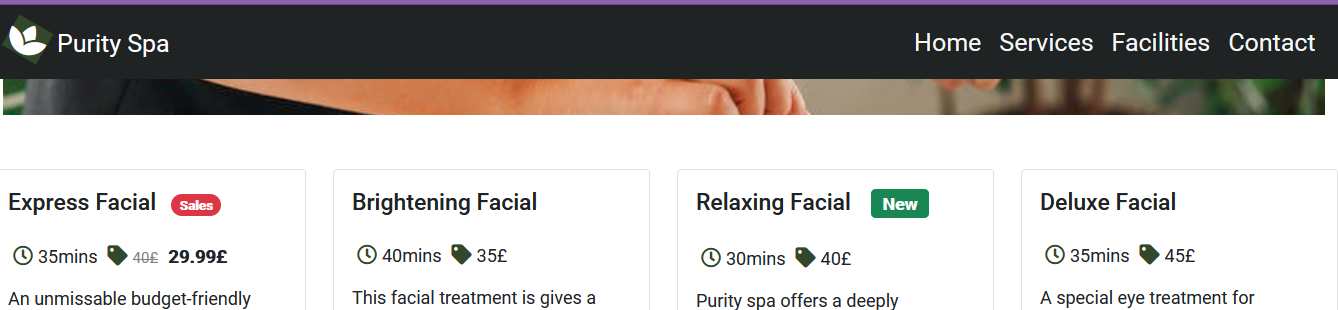
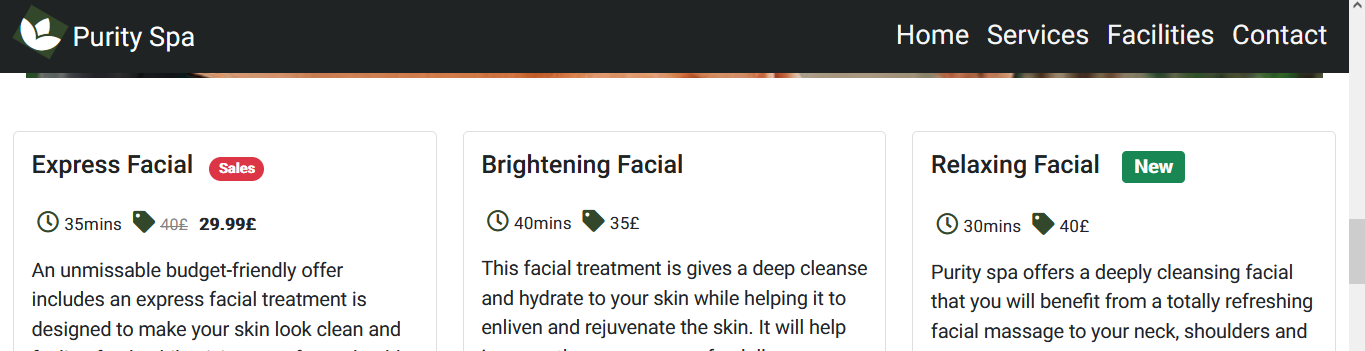
added media queries for ipad's vieport responsiveness, video and images on main page are fixed to be responsive

diff --git a/index.html b/index.html
@@ -79,11 +79,11 @@
       </div>
       <br>
       <div class="row">
-        <div class="col-12 col-md-6 pt-4 ">
+        <div class="col-12 col-md-6  pt-4 ">
           <h3 class="text-center section-sub-heading">A warm Welcome</h3>
           <br>
           <div class="section-content">
-            <p>Purity Spa Leisure Centre, located in Putney is one of the most distinctive environments in which to
+            <p class="welcome-text">Purity Spa Leisure Centre, located in Putney is one of the most distinctive environments in which to
               restore mind, body and spirit. Owning its name to Greek word "ευημερία" Purity Spa promises to bring purity and
               prosperity to the costumers' life while experiencing our luxury and unique services. All of our treatments have harness the power of nature and science to create ground-breaking formulations that
               genuinely transform your skin. With more than 100 years of operation, we work hard to create a friendly day spa environment, that
@@ -92,8 +92,9 @@
               </p>
           </div>
         </div>
-        <div class="col-12 col-md-5 text-center mb-5">
+        <div class="col-12 col-md-5 d-block text-center mb-5">
           <img src="assets/images/spa-humidifier.jpg" class="img-thumbnail" alt="spa-humidifier-image">
+          
         </div>
       </div>
     </div>
@@ -106,12 +107,12 @@
         </div>
       </div>
       <div class="row massage-benefits-content">
-        <div class="col-12 col-md-6 mb-5 video-container p-2 p-sm-5">
+        <div class="col-lg-6 col-md-12 mb-4">
           <div class="ratio ratio-16x9">
             <iframe src="assets/images/massage-video.mp4" title="YouTube video" allowfullscreen></iframe>
           </div>
         </div>
-        <div class="col-12 col-md-6 shadow p-3 mb-5 bg-body rounded massage-benefits-content">
+        <div class="col-lg-6 col-md-12 shadow p-3 mb-5 bg-body rounded massage-benefits-content">
           <p class="section-sub-heading mb-4">Why should you get a massage with us?</p>
           <p class="section-content"> Massage has been practiced for thousands of years and increasingly being offered along with standard beneficial health treatments, as it is generally considered part of integrative medicine and can have positive impact to a wide range of medical conditions and situations. Massage offers benefits  beyond simple relaxation as can reduce the pain of headache and the number of migraines. Lots of  studies have shown the effectiveness of massage for knee osteoarthritis fatigue, nausea, or depression, and it can also improve the function of your immune system. Furthermore a massage therapy can increase joint mobility and flexibility, reduce pain and muscle soreness, improve circulation, energy and alertness skin tone  and recovery of soft tissue injuries as well as  lower heart rate and blood pressure.
             
@@ -126,9 +127,9 @@
       <div class="row">
         <div class="col-sm-12 mt-4 col-md-6 col-lg-3">
           <div class="timetable">
-            <h4 class="footer-headings text-center p-2">Opening Hours</h4>
+            <h4 class="footer-headings-opening text-center">Opening Hours</h4>
           </div>
-          <table class="table table-borderless" id="table">
+          <table class="table table-footer table-borderless" id="table">
             <tbody>
               <tr>
                 <td>Weekends</td>
@@ -181,12 +182,12 @@
           <h4 class="footer-headings text-center p-1">Find Us</h4>
           <iframe
             src="https://maps.google.com/maps?q=143%20Upper%20Richmond%20road&t=&z=13&ie=UTF8&iwloc=&output=embed"
-            style="border:0;" allowfullscreen="" aria-hidden="false"
+            style="border:0;" class="google-maps" allowfullscreen="" aria-hidden="false"
             title="Google map showing the location of ThermalSpa" tabindex="0">
           </iframe>
         </div>
         <div class="col-sm-12 mt-4 col-md-6 col-lg-3 p-2">
-          <h4 class="footer-headings text-center p-1">Follow Us</h4>
+          <h4 class="footer-headings-follow-us text-center p-1">Follow Us</h4>
           <ul class="list-inline ">
             <li class="list-inline-item social-links text-center">
               <a class="btn" style="background-color: #3b5998;" href="http://www.facebook.com" target="_blank" rel="noopener"  role="button"><i

diff --git a/services.html b/services.html
@@ -62,7 +62,7 @@
   </div>
 </div>
 </section>
-
+<!-- Cards Taken form Bootstap https://getbootstrap.com/docs/5.0/components/card/ and then modified -->
 <section>
   <div class="container-fluid facilities-services-section mb-5">
       <div class="row">
@@ -87,8 +87,8 @@
           <div class="card h-100">
           
             <div class="card-body">
-              <h5 class="card-title"><h5 class="card-title">Reflexology<span class="badge badge-treatment bg-secondary bg-success">New</span></h5>
-            </h5>
+              <h5 class="card-title">Reflexology<span class="badge badge-treatment bg-secondary bg-success">New</span></h5>
+            
             <div><i class="far fa-clock"></i>50mins<i class="fas fa-tag ml-2"></i>60£</div>
             <p class="card-text">Anyone who suffers from stress and anxiety must try out our reflexology treatment as it's instantly relaxing, soothing therapy and is used to treat from psychological issues to digistive problems. While you will be lying on treatment table your reflexologist will warm up your feet and applies different amounts of pressure to your feet, hands and ears by using thumb, finger, and hand massage techniques without the use of oil or lotion. </p>
               
@@ -202,7 +202,7 @@
                 <div class="card h-100">
                 
                   <div class="card-body">
-                    <h5 class="card-title"><h5 class="card-title">Sports bamboo massage</h5>
+                    <h5 class="card-title">Sports bamboo massage</h5>
                     <div><i class="far fa-clock"></i>40mins<i class="fas fa-tag ml-2"></i>50£</div>
                     <p class="card-text"> 
                       Sports Bamboo massage is especially effective for athletes experiencing body injuries or pain such as tightness in their legs, feet, neck, back or arms. This therapeutic massage  breaks down muscular tensions, softens tissue function and enhanced athletic performance while improving lymphatic and blood circulation.</p>
@@ -285,7 +285,7 @@
               </div>
             </div>
             </div>
-              
+              </section>
                   <footer class="footer-area">
                     <div class='container-fluid'>
                       <div class="row">
@@ -293,7 +293,7 @@
                           <div class="timetable">
                             <h4 class="footer-headings text-center p-2">Opening Hours</h4>
                           </div>
-                          <table class="table table-borderless" id="table">
+                          <table class="table table-footer table-borderless" id="table">
                             <tbody>
                               <tr>
                                 <td>Weekends</td>

diff --git a/contact.html b/contact.html
@@ -70,24 +70,20 @@
               <p class="section-content mb-5">Purity Spa would love to hear from you. Our Costumer Support Team working hard to respond within 24 hours.</p>
               <div class="row">
                 <div class="col-md-6 contact-details">
-                    <div class="mt-5 text-center px-3">
-                          <div class="d-flex contact-details"> <span class="icons"><i class="fa fa-map-marker font-icon"></i></span>
+                    <div class="mt-5 text-center">
+                          <div class="d-flex mt-3 contact-details"> <span class="icons"><i class="fa fa-map-marker font-icon"></i></span>
                               <div class="address text-left"> 
-                                  <p>143 Upper Richmond Road</p>
+                                  <p>143 Upper Richmond Road, London</p>
                               </div>
                           </div>
-                          <div class="d-flex mt-3 contact-details"> 
-                              <div class="d-flex phone text-left">
+                          <div class="d-flex mt-3  contact-details"> 
+                              <div class="d-flex  phone text-left">
                                 <span class="icons">
                                 <i class="fa fa-phone font-icon"></i> </span>
-                                  <p> 0789456732</p>
+                                  <p class="number p-2"> 0789456732</p>
                               </div>
                           </div>
-                          <div class="d-flex align-items-center mt-3 contact-details"> <span class="icons"><i class="fas fa-envelope-square font-icon"></i></span>
-                              <div class="email text-left"> 
-                                  <p>prosperityspa@gmail.com</p>
-                              </div>
-                          </div>
+                          
                       </div>
                   </div>
                   
@@ -156,7 +152,7 @@
         <div class="timetable">
           <h4 class="footer-headings text-center p-2">Opening Hours</h4>
         </div>
-        <table class="table table-borderless" id="table">
+        <table class="table table-footer table-borderless" id="table">
           <tbody>
             <tr>
               <td>Weekends</td>

diff --git a/assets/style.css b/assets/style.css
@@ -2,9 +2,8 @@
 
 
 html, body{
-  font-family:'Roboto', sans-serif;
-  font-weight: 400;
-  font-size:18px;
+ margin:0px;
+ font-family:'Roboto', sans-serif;
 }
 
 /*------------------------------->Nav bar */
@@ -354,7 +353,7 @@ background-color:  #33472B;
   border-color: #33472B;
 }
 
-/* -----------------------------------------Services Page */
+
 
 .card-title{
   font-family:'Roboto', sans-serif;
@@ -374,20 +373,49 @@ background-color:  #33472B;
   display:flex;
   justify-content:center;
   align-items: center;
+  margin-top: -120px;
   
 }
-
-
-
 
 @media only screen and (max-width: 600px) {
   .list-inline {
     margin-left:10px;
   }
 }
+
 @media only screen and (max-width:600px) {
   .services-headings {
     margin-top:50%;
     padding:10px;
+  }
+}
+@media only screen and (min-width:750px) and (max-width: 1100px) {
+  .img-thumbnail {
+   margin-top:150px;
+    
+  }
+}
+@media only screen and (min-width:750px) and (max-width: 1100px) {
+  .video-container {
+   
+    
+  }
+}
+
+@media only screen and (min-width:900px) and (max-width: 100px) {
+  .google-maps {
+   width: 400px;
+    
+  }
+}
+@media only screen and (min-width:900px) and (max-width: 1100px) {
+  .footer-area .list-inline,.footer-headings-follow-us {
+   display:none;
+    
+  }
+}
+@media only screen and (max-width:500px) {
+  .table-footer {
+    text-align: center; 
   }
 }

diff --git a/booking.html b/booking.html
@@ -58,11 +58,11 @@
                     </div>
                     <div class="row d-flex justify-content-center align-items-center">
                         <div class="col-md-5 text-center mt-4">
-                            <form id="contactForm">
+                            <form id="contactForm" onsubmit="alert('Thank you for booking with Purity Spa! Your treatment has been booked!.')">
 
                                 <!-- Name -->
                                 <div class="mb-3 text-left">
-                                    <label for="Name"> Full Name</label>
+                                    <label for="name"> Full Name</label>
                                     <input class="form-control" id="name" type="text" placeholder="Name Last Name"
                                         required="required" />
                                 </div>

diff --git a/facilities.html b/facilities.html
@@ -420,7 +420,7 @@
         <div class="timetable">
           <h4 class="footer-headings text-center p-2">Opening Hours</h4>
         </div>
-        <table class="table table-borderless" id="table">
+        <table class="table table-footer table-borderless" id="table">
           <tbody>
             <tr>
               <td>Weekends</td>
